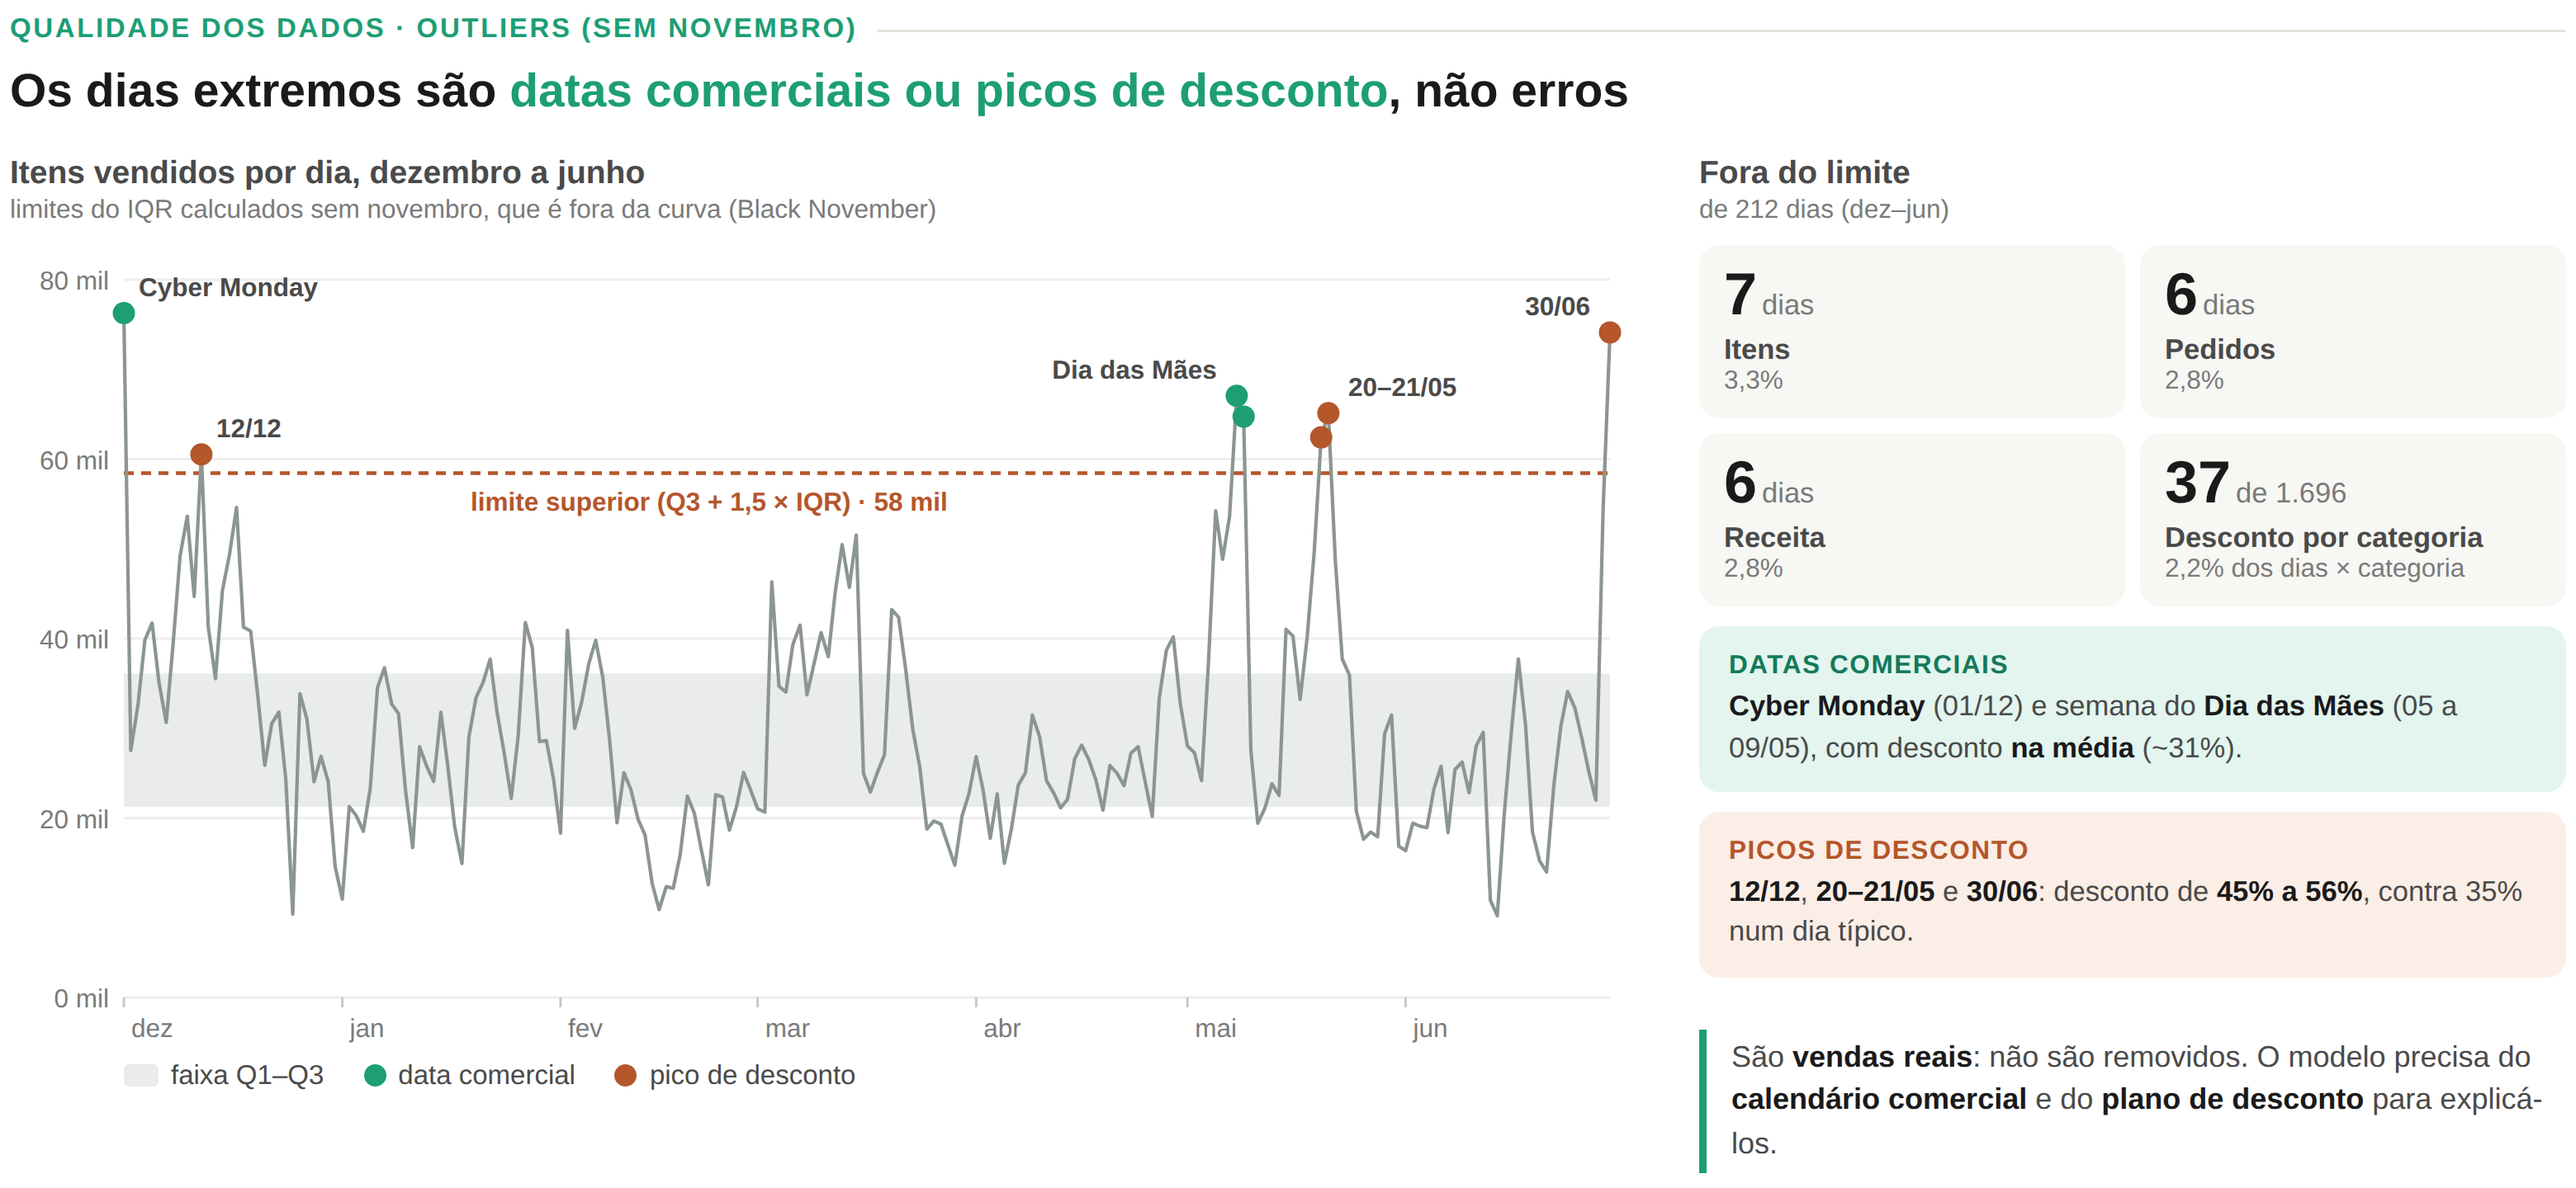
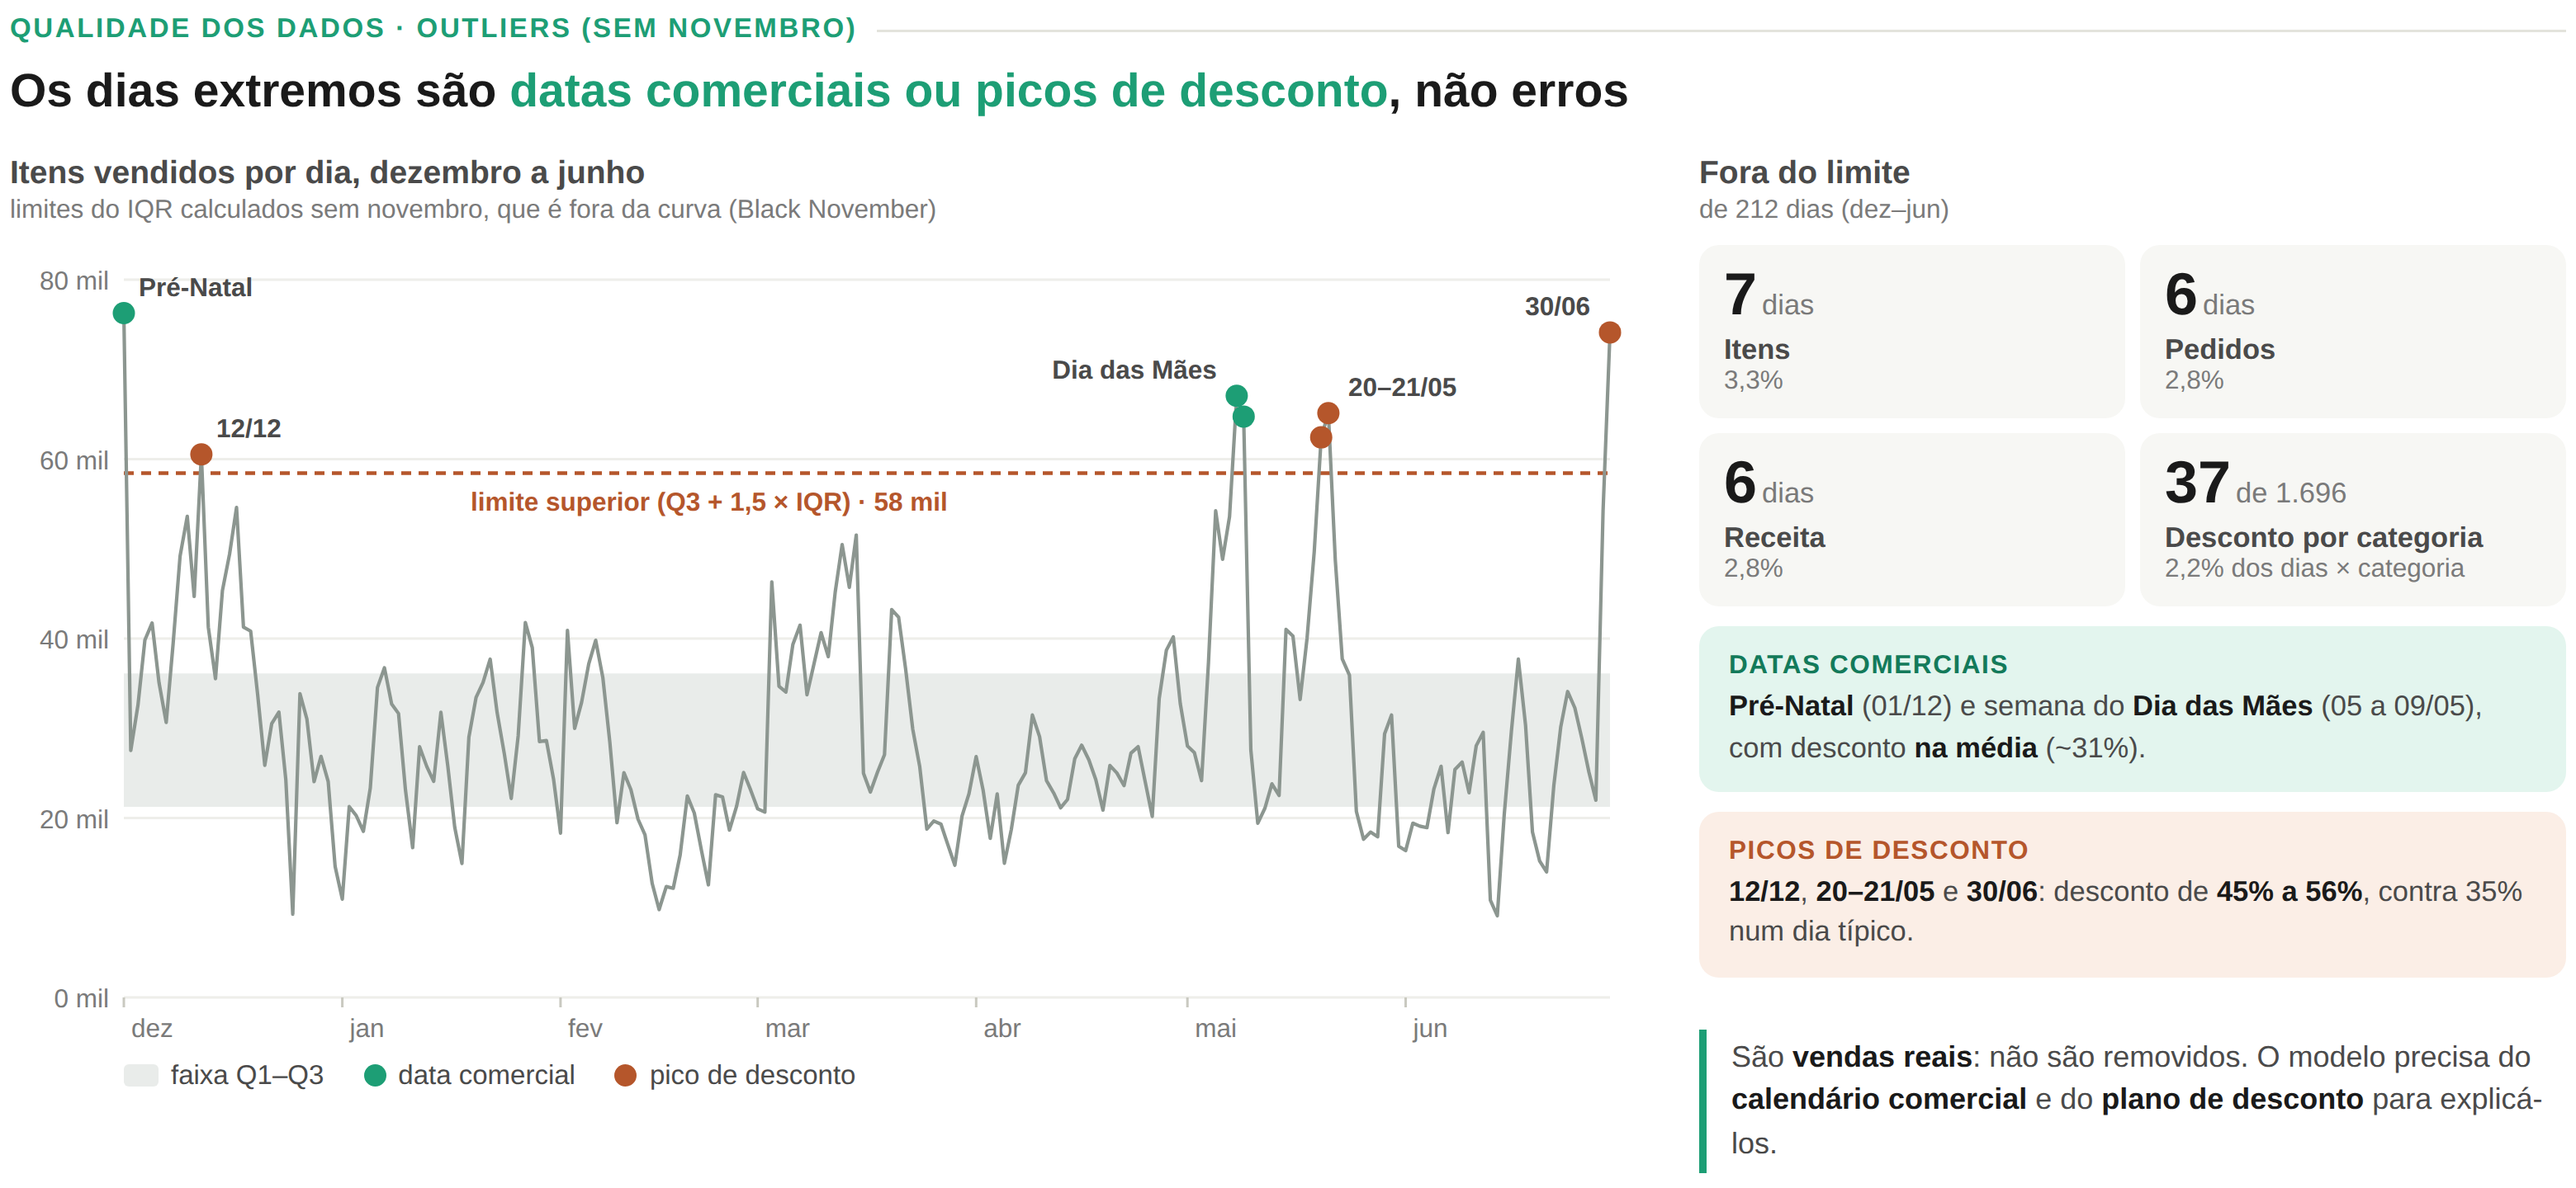
Widget de outliers: 01/12 como pré-Natal
Claude-Session: https://claude.ai/code/session_01NUJZKTcM8cs9QBTcUeuacF

Changed region(s): [[0.6529, 0.5625, 0.9638, 0.6562], [0.0622, 0.2188, 0.1244, 0.25]]

diff --git a/apresentacao/widgets/10_outliers.html b/apresentacao/widgets/10_outliers.html
@@ -54,7 +54,7 @@
   <div class="colunas">
     <div>
       <div class="bloco-tit">Itens vendidos por dia, dezembro a junho<span>limites do IQR calculados sem novembro, que é fora da curva (Black November)</span></div>
-      <svg width="654" height="328"><rect x="46" y="175.1" width="600" height="53.9" class="faixa"/><line x1="46" x2="646" y1="94.2" y2="94.2" class="lim"/><text x="186" y="109.2" class="lim-t">limite superior (Q3 + 1,5 × IQR) · 58 mil</text><line x1="46" x2="646" y1="306.0" y2="306.0" class="grade"/><text x="40" y="310.0" text-anchor="end" class="eixo">0 mil</text><line x1="46" x2="646" y1="233.5" y2="233.5" class="grade"/><text x="40" y="237.5" text-anchor="end" class="eixo">20 mil</text><line x1="46" x2="646" y1="161.0" y2="161.0" class="grade"/><text x="40" y="165.0" text-anchor="end" class="eixo">40 mil</text><line x1="46" x2="646" y1="88.5" y2="88.5" class="grade"/><text x="40" y="92.5" text-anchor="end" class="eixo">60 mil</text><line x1="46" x2="646" y1="16.0" y2="16.0" class="grade"/><text x="40" y="20.0" text-anchor="end" class="eixo">80 mil</text><line x1="46.0" x2="46.0" y1="306" y2="310" class="tick"/><text x="49.0" y="322" class="eixo">dez</text><line x1="134.2" x2="134.2" y1="306" y2="310" class="tick"/><text x="137.2" y="322" class="eixo">jan</text><line x1="222.3" x2="222.3" y1="306" y2="310" class="tick"/><text x="225.3" y="322" class="eixo">fev</text><line x1="301.9" x2="301.9" y1="306" y2="310" class="tick"/><text x="304.9" y="322" class="eixo">mar</text><line x1="390.1" x2="390.1" y1="306" y2="310" class="tick"/><text x="393.1" y="322" class="eixo">abr</text><line x1="475.4" x2="475.4" y1="306" y2="310" class="tick"/><text x="478.4" y="322" class="eixo">mai</text><line x1="563.5" x2="563.5" y1="306" y2="310" class="tick"/><text x="566.5" y="322" class="eixo">jun</text><polyline points="46.0,29.5 48.8,206.2 51.7,187.9 54.5,161.6 57.4,154.7 60.2,178.8 63.1,194.9 65.9,163.0 68.7,127.7 71.6,111.6 74.4,144.0 77.3,86.6 80.1,156.4 83.0,177.2 85.8,141.6 88.7,126.8 91.5,108.0 94.3,156.4 97.2,158.0 100.0,183.4 102.9,212.2 105.7,195.4 108.6,190.7 111.4,218.1 114.2,272.4 117.1,183.3 119.9,193.5 122.8,218.8 125.6,208.6 128.5,218.8 131.3,253.1 134.2,266.3 137.0,228.9 139.8,232.5 142.7,238.9 145.5,221.4 148.4,180.8 151.2,172.8 154.1,187.4 156.9,191.3 159.7,222.2 162.6,245.5 165.4,204.7 168.3,212.7 171.1,218.7 174.0,190.8 176.8,212.6 179.6,237.3 182.5,251.9 185.3,200.9 188.2,184.8 191.0,178.8 193.9,169.3 196.7,190.9 199.6,207.5 202.4,225.6 205.2,200.3 208.1,154.5 210.9,164.7 213.8,202.6 216.6,202.2 219.5,217.9 222.3,239.6 225.1,157.7 228.0,197.3 230.8,186.8 233.7,171.2 236.5,161.7 239.4,176.9 242.2,202.8 245.1,235.4 247.9,215.2 250.7,222.0 253.6,234.0 256.4,240.3 259.3,259.9 262.1,270.5 265.0,261.2 267.8,261.9 270.6,248.4 273.5,224.6 276.3,231.5 279.2,246.6 282.0,260.5 284.9,224.1 287.7,225.0 290.5,238.4 293.4,228.7 296.2,215.1 299.1,222.3 301.9,229.8 304.8,231.1 307.6,138.1 310.5,180.3 313.3,182.6 316.1,163.4 319.0,155.6 321.8,183.7 324.7,170.9 327.5,158.6 330.4,168.3 333.2,142.2 336.0,123.0 338.9,140.3 341.7,119.2 344.6,215.4 347.4,223.0 350.3,214.9 353.1,207.9 356.0,149.3 358.8,152.4 361.6,173.1 364.5,197.6 367.3,212.6 370.2,238.0 373.0,234.7 375.9,236.0 378.7,244.4 381.5,252.6 384.4,232.7 387.2,223.7 390.1,208.7 392.9,222.2 395.8,241.7 398.6,223.8 401.5,251.8 404.3,238.1 407.1,220.3 410.0,215.2 412.8,191.9 415.7,200.6 418.5,218.4 421.4,223.4 424.2,229.4 427.0,226.0 429.9,209.6 432.7,204.1 435.6,210.0 438.4,218.0 441.3,230.3 444.1,212.3 446.9,215.3 449.8,220.4 452.6,207.3 455.5,204.7 458.3,218.6 461.2,232.9 464.0,185.2 466.9,165.7 469.7,160.3 472.5,187.2 475.4,204.4 478.2,207.1 481.1,218.4 483.9,170.6 486.8,109.4 489.6,129.0 492.4,111.7 495.3,62.9 498.1,71.3 501.0,206.0 503.8,235.6 506.7,229.5 509.5,219.7 512.4,224.4 515.2,157.3 518.0,160.0 520.9,185.6 523.7,160.8 526.6,125.8 529.4,79.7 532.3,69.9 535.1,129.4 537.9,169.2 540.8,175.8 543.6,230.8 546.5,242.1 549.3,239.2 552.2,241.1 555.0,199.5 557.8,191.9 560.7,244.9 563.5,246.7 566.4,235.6 569.2,236.8 572.1,237.4 574.9,221.8 577.8,212.6 580.6,239.4 583.4,213.9 586.3,210.9 589.1,223.3 592.0,204.3 594.8,198.9 597.7,266.7 600.5,273.0 603.3,232.1 606.2,198.4 609.0,169.3 611.9,195.9 614.7,239.2 617.6,250.9 620.4,255.3 623.3,220.6 626.1,196.8 628.9,182.4 631.8,189.0 634.6,201.2 637.5,215.0 640.3,226.3 643.2,109.4 646.0,37.3" class="serie"/><circle cx="46.0" cy="29.5" r="4.5" class="pt data"/><circle cx="77.3" cy="86.6" r="4.5" class="pt desconto"/><circle cx="495.3" cy="62.9" r="4.5" class="pt data"/><circle cx="498.1" cy="71.3" r="4.5" class="pt data"/><circle cx="529.4" cy="79.7" r="4.5" class="pt desconto"/><circle cx="532.3" cy="69.9" r="4.5" class="pt desconto"/><circle cx="646.0" cy="37.3" r="4.5" class="pt desconto"/><text x="52.0" y="22.5" text-anchor="start" class="rot">Cyber Monday</text><text x="83.3" y="79.6" text-anchor="start" class="rot">12/12</text><text x="487.3" y="55.9" text-anchor="end" class="rot">Dia das Mães</text><text x="540.3" y="62.9" text-anchor="start" class="rot">20–21/05</text><text x="638.0" y="30.3" text-anchor="end" class="rot">30/06</text></svg>
+      <svg width="654" height="328"><rect x="46" y="175.1" width="600" height="53.9" class="faixa"/><line x1="46" x2="646" y1="94.2" y2="94.2" class="lim"/><text x="186" y="109.2" class="lim-t">limite superior (Q3 + 1,5 × IQR) · 58 mil</text><line x1="46" x2="646" y1="306.0" y2="306.0" class="grade"/><text x="40" y="310.0" text-anchor="end" class="eixo">0 mil</text><line x1="46" x2="646" y1="233.5" y2="233.5" class="grade"/><text x="40" y="237.5" text-anchor="end" class="eixo">20 mil</text><line x1="46" x2="646" y1="161.0" y2="161.0" class="grade"/><text x="40" y="165.0" text-anchor="end" class="eixo">40 mil</text><line x1="46" x2="646" y1="88.5" y2="88.5" class="grade"/><text x="40" y="92.5" text-anchor="end" class="eixo">60 mil</text><line x1="46" x2="646" y1="16.0" y2="16.0" class="grade"/><text x="40" y="20.0" text-anchor="end" class="eixo">80 mil</text><line x1="46.0" x2="46.0" y1="306" y2="310" class="tick"/><text x="49.0" y="322" class="eixo">dez</text><line x1="134.2" x2="134.2" y1="306" y2="310" class="tick"/><text x="137.2" y="322" class="eixo">jan</text><line x1="222.3" x2="222.3" y1="306" y2="310" class="tick"/><text x="225.3" y="322" class="eixo">fev</text><line x1="301.9" x2="301.9" y1="306" y2="310" class="tick"/><text x="304.9" y="322" class="eixo">mar</text><line x1="390.1" x2="390.1" y1="306" y2="310" class="tick"/><text x="393.1" y="322" class="eixo">abr</text><line x1="475.4" x2="475.4" y1="306" y2="310" class="tick"/><text x="478.4" y="322" class="eixo">mai</text><line x1="563.5" x2="563.5" y1="306" y2="310" class="tick"/><text x="566.5" y="322" class="eixo">jun</text><polyline points="46.0,29.5 48.8,206.2 51.7,187.9 54.5,161.6 57.4,154.7 60.2,178.8 63.1,194.9 65.9,163.0 68.7,127.7 71.6,111.6 74.4,144.0 77.3,86.6 80.1,156.4 83.0,177.2 85.8,141.6 88.7,126.8 91.5,108.0 94.3,156.4 97.2,158.0 100.0,183.4 102.9,212.2 105.7,195.4 108.6,190.7 111.4,218.1 114.2,272.4 117.1,183.3 119.9,193.5 122.8,218.8 125.6,208.6 128.5,218.8 131.3,253.1 134.2,266.3 137.0,228.9 139.8,232.5 142.7,238.9 145.5,221.4 148.4,180.8 151.2,172.8 154.1,187.4 156.9,191.3 159.7,222.2 162.6,245.5 165.4,204.7 168.3,212.7 171.1,218.7 174.0,190.8 176.8,212.6 179.6,237.3 182.5,251.9 185.3,200.9 188.2,184.8 191.0,178.8 193.9,169.3 196.7,190.9 199.6,207.5 202.4,225.6 205.2,200.3 208.1,154.5 210.9,164.7 213.8,202.6 216.6,202.2 219.5,217.9 222.3,239.6 225.1,157.7 228.0,197.3 230.8,186.8 233.7,171.2 236.5,161.7 239.4,176.9 242.2,202.8 245.1,235.4 247.9,215.2 250.7,222.0 253.6,234.0 256.4,240.3 259.3,259.9 262.1,270.5 265.0,261.2 267.8,261.9 270.6,248.4 273.5,224.6 276.3,231.5 279.2,246.6 282.0,260.5 284.9,224.1 287.7,225.0 290.5,238.4 293.4,228.7 296.2,215.1 299.1,222.3 301.9,229.8 304.8,231.1 307.6,138.1 310.5,180.3 313.3,182.6 316.1,163.4 319.0,155.6 321.8,183.7 324.7,170.9 327.5,158.6 330.4,168.3 333.2,142.2 336.0,123.0 338.9,140.3 341.7,119.2 344.6,215.4 347.4,223.0 350.3,214.9 353.1,207.9 356.0,149.3 358.8,152.4 361.6,173.1 364.5,197.6 367.3,212.6 370.2,238.0 373.0,234.7 375.9,236.0 378.7,244.4 381.5,252.6 384.4,232.7 387.2,223.7 390.1,208.7 392.9,222.2 395.8,241.7 398.6,223.8 401.5,251.8 404.3,238.1 407.1,220.3 410.0,215.2 412.8,191.9 415.7,200.6 418.5,218.4 421.4,223.4 424.2,229.4 427.0,226.0 429.9,209.6 432.7,204.1 435.6,210.0 438.4,218.0 441.3,230.3 444.1,212.3 446.9,215.3 449.8,220.4 452.6,207.3 455.5,204.7 458.3,218.6 461.2,232.9 464.0,185.2 466.9,165.7 469.7,160.3 472.5,187.2 475.4,204.4 478.2,207.1 481.1,218.4 483.9,170.6 486.8,109.4 489.6,129.0 492.4,111.7 495.3,62.9 498.1,71.3 501.0,206.0 503.8,235.6 506.7,229.5 509.5,219.7 512.4,224.4 515.2,157.3 518.0,160.0 520.9,185.6 523.7,160.8 526.6,125.8 529.4,79.7 532.3,69.9 535.1,129.4 537.9,169.2 540.8,175.8 543.6,230.8 546.5,242.1 549.3,239.2 552.2,241.1 555.0,199.5 557.8,191.9 560.7,244.9 563.5,246.7 566.4,235.6 569.2,236.8 572.1,237.4 574.9,221.8 577.8,212.6 580.6,239.4 583.4,213.9 586.3,210.9 589.1,223.3 592.0,204.3 594.8,198.9 597.7,266.7 600.5,273.0 603.3,232.1 606.2,198.4 609.0,169.3 611.9,195.9 614.7,239.2 617.6,250.9 620.4,255.3 623.3,220.6 626.1,196.8 628.9,182.4 631.8,189.0 634.6,201.2 637.5,215.0 640.3,226.3 643.2,109.4 646.0,37.3" class="serie"/><circle cx="46.0" cy="29.5" r="4.5" class="pt data"/><circle cx="77.3" cy="86.6" r="4.5" class="pt desconto"/><circle cx="495.3" cy="62.9" r="4.5" class="pt data"/><circle cx="498.1" cy="71.3" r="4.5" class="pt data"/><circle cx="529.4" cy="79.7" r="4.5" class="pt desconto"/><circle cx="532.3" cy="69.9" r="4.5" class="pt desconto"/><circle cx="646.0" cy="37.3" r="4.5" class="pt desconto"/><text x="52.0" y="22.5" text-anchor="start" class="rot">Pré-Natal</text><text x="83.3" y="79.6" text-anchor="start" class="rot">12/12</text><text x="487.3" y="55.9" text-anchor="end" class="rot">Dia das Mães</text><text x="540.3" y="62.9" text-anchor="start" class="rot">20–21/05</text><text x="638.0" y="30.3" text-anchor="end" class="rot">30/06</text></svg>
       <div class="legenda"><span><i class="q"></i>faixa Q1–Q3</span><span><i style="background:#1d9e75"></i>data comercial</span><span><i style="background:#b5562b"></i>pico de desconto</span></div>
     </div>
     <div class="lado">
@@ -65,7 +65,7 @@
         <div class="tile"><div class="v">6<small>dias</small></div><div class="n">Receita</div><div class="m">2,8%</div></div>
         <div class="tile"><div class="v">37<small>de 1.696</small></div><div class="n">Desconto por categoria</div><div class="m">2,2% dos dias × categoria</div></div>
       </div>
-      <div class="tipo data"><span class="t">Datas comerciais</span><b>Cyber Monday</b> (01/12) e semana do <b>Dia das Mães</b> (05 a 09/05), com desconto <b>na média</b> (~31%).</div>
+      <div class="tipo data"><span class="t">Datas comerciais</span><b>Pré-Natal</b> (01/12) e semana do <b>Dia das Mães</b> (05 a 09/05), com desconto <b>na média</b> (~31%).</div>
       <div class="tipo desc"><span class="t">Picos de desconto</span><b>12/12</b>, <b>20–21/05</b> e <b>30/06</b>: desconto de <b>45% a 56%</b>, contra 35% num dia típico.</div>
       <div class="conclusao">São <b>vendas reais</b>: não são removidos. O modelo precisa do <b>calendário comercial</b> e do <b>plano de desconto</b> para explicá-los.</div>
     </div>

diff --git a/apresentacao/geradores/10_outliers_modelo.html b/apresentacao/geradores/10_outliers_modelo.html
@@ -65,7 +65,7 @@
         <div class="tile"><div class="v">{{REC}}<small>dias</small></div><div class="n">Receita</div><div class="m">{{REC_P}}</div></div>
         <div class="tile"><div class="v">37<small>de 1.696</small></div><div class="n">Desconto por categoria</div><div class="m">2,2% dos dias × categoria</div></div>
       </div>
-      <div class="tipo data"><span class="t">Datas comerciais</span><b>Cyber Monday</b> (01/12) e semana do <b>Dia das Mães</b> (05 a 09/05), com desconto <b>na média</b> (~31%).</div>
+      <div class="tipo data"><span class="t">Datas comerciais</span><b>Pré-Natal</b> (01/12) e semana do <b>Dia das Mães</b> (05 a 09/05), com desconto <b>na média</b> (~31%).</div>
       <div class="tipo desc"><span class="t">Picos de desconto</span><b>12/12</b>, <b>20–21/05</b> e <b>30/06</b>: desconto de <b>45% a 56%</b>, contra {{TX_MED}} num dia típico.</div>
       <div class="conclusao">São <b>vendas reais</b>: não são removidos. O modelo precisa do <b>calendário comercial</b> e do <b>plano de desconto</b> para explicá-los.</div>
     </div>

diff --git a/apresentacao/geradores/10_outliers.py b/apresentacao/geradores/10_outliers.py
@@ -48,7 +48,7 @@ pts = " ".join(f"{px(i):.1f},{py(v):.1f}" for i, v in d["qt"].items())
 p.append(f'<polyline points="{pts}" class="serie"/>')
 for i, r in d[flags["qt"]].iterrows():
     p.append(f'<circle cx="{px(i):.1f}" cy="{py(r["qt"]):.1f}" r="4.5" class="pt {r["tipo"]}"/>')
-rot = [("2025-12-01", "Cyber Monday", "start", 6), ("2025-12-12", "12/12", "start", 6),
+rot = [("2025-12-01", "Pré-Natal", "start", 6), ("2025-12-12", "12/12", "start", 6),
        ("2026-05-08", "Dia das Mães", "end", -8), ("2026-05-21", "20–21/05", "start", 8), ("2026-06-30", "30/06", "end", -8)]
 for dia, txt, anc, dx in rot:
     i = d.index[d["dia"] == pd.Timestamp(dia)][0]
